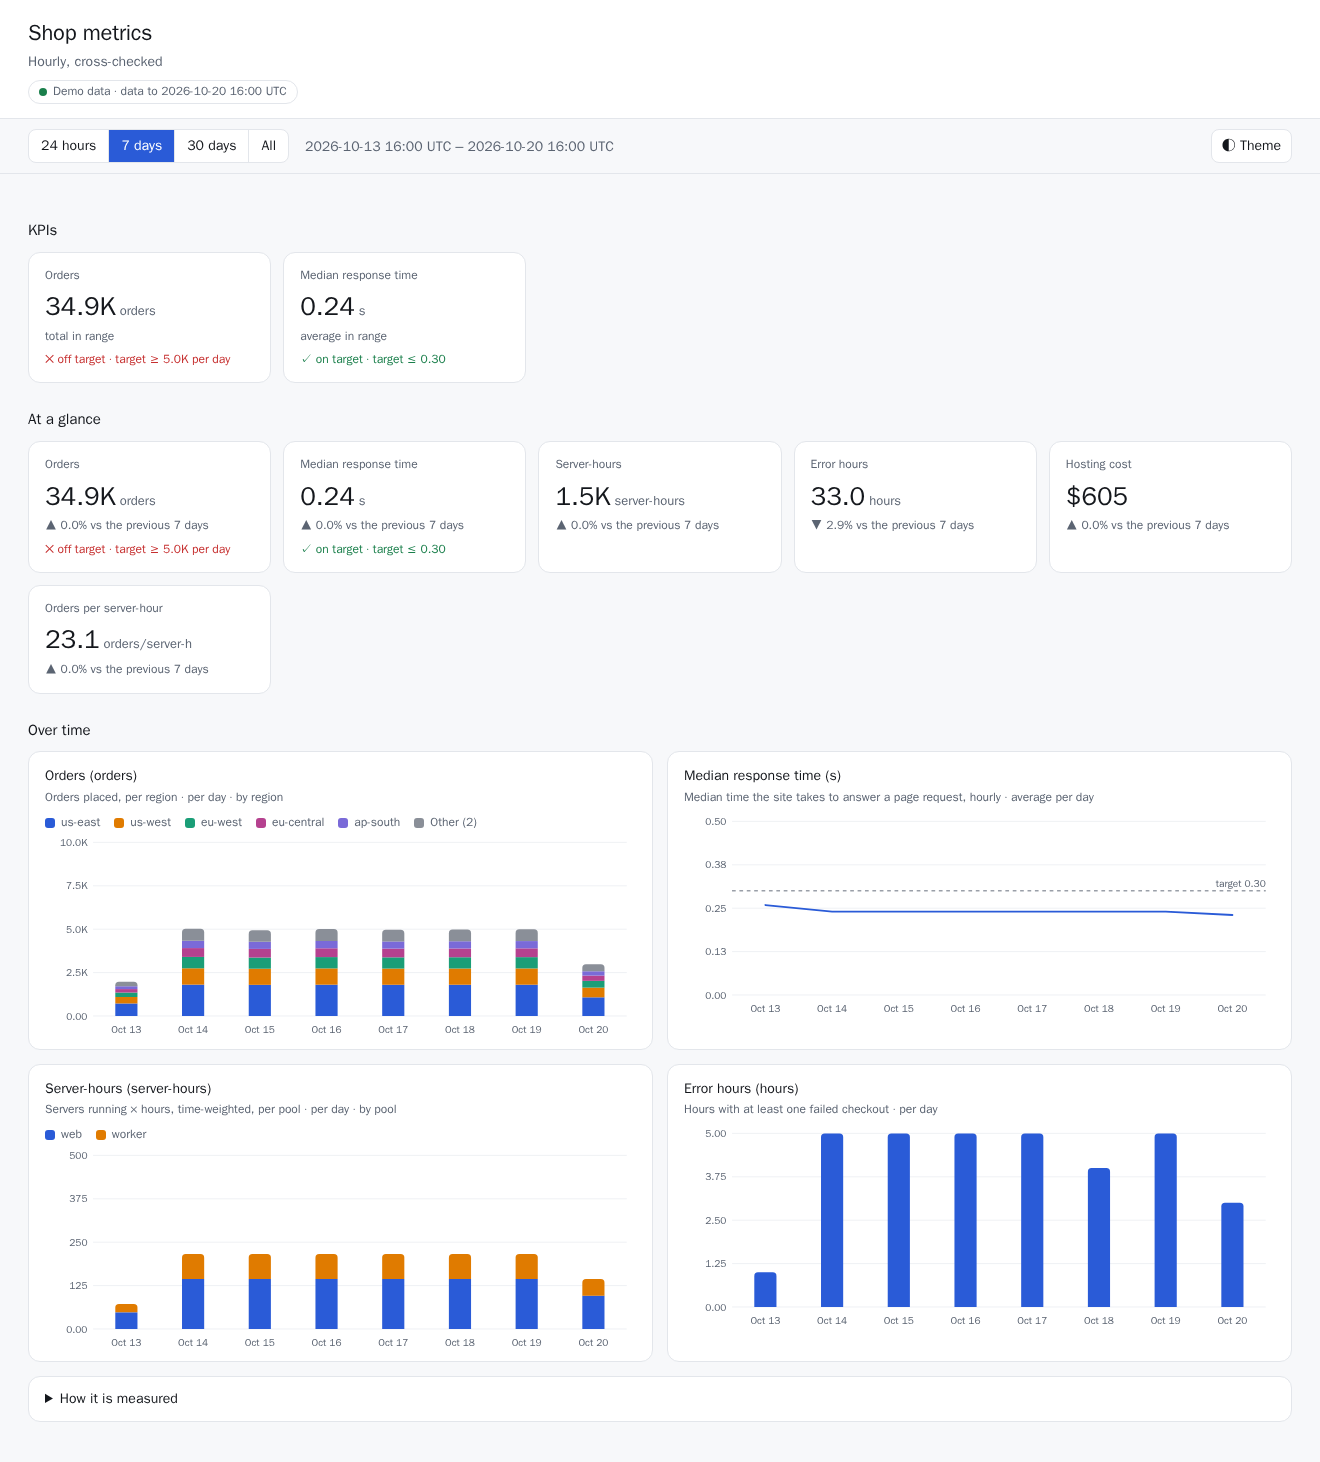
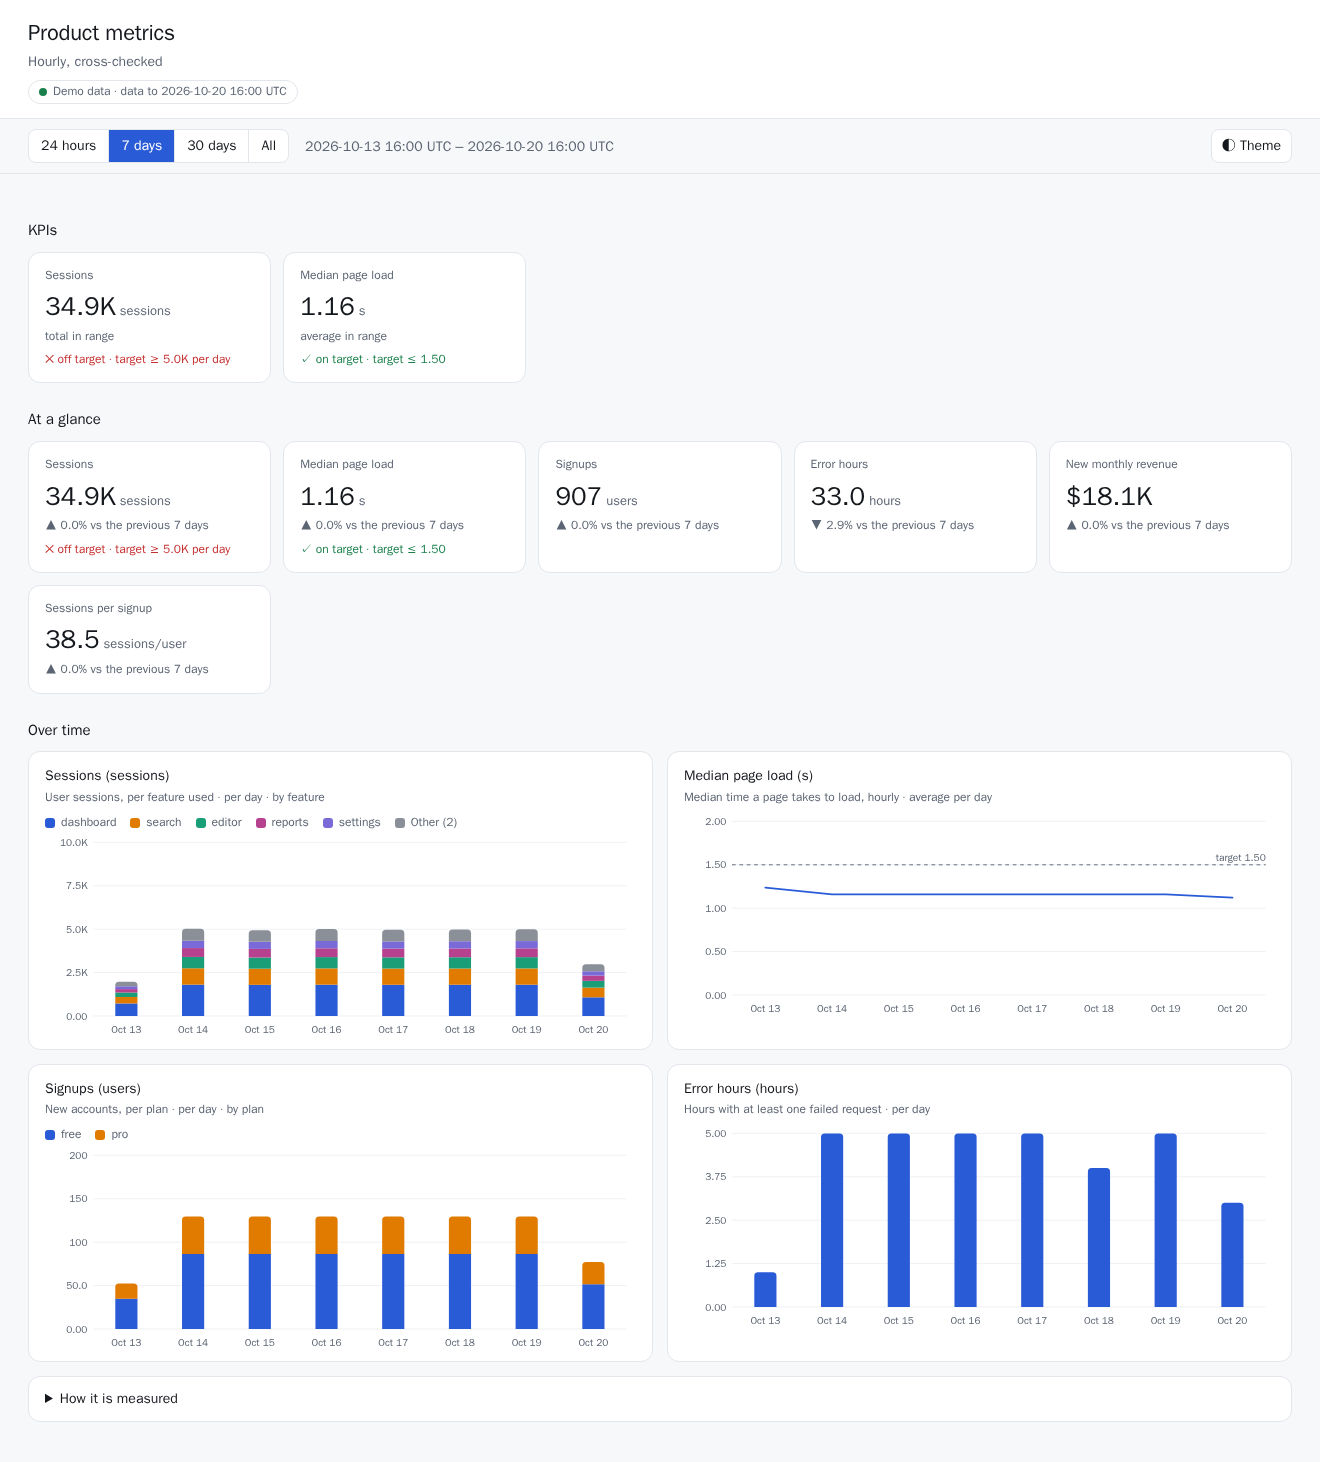
Demo plays a software product, not a shop
Sessions per feature, median page load, signups per plan, error hours, and
new monthly revenue from a hand-set rate per signup.

Assisted-By: Claude (Anthropic AI) <noreply@anthropic.com>

diff --git a/scripts/sources/demo.py b/scripts/sources/demo.py
@@ -1,27 +1,27 @@
 """Synthetic data, deterministic, no network: for trying the kit before a real source is connected,
-and for the offline tests. It plays an online shop. `query` names a generator: `orders`,
-`response_time`, `servers`, `errors`. Values depend only on the bucket time, so a range query and
+and for the offline tests. It plays a software product. `query` names a generator: `sessions`,
+`page_load`, `signups`, `errors`. Values depend only on the bucket time, so a range query and
 a window query agree exactly.
 """
 
 import math
 
-SERIES = {"orders": ["us-east", "us-west", "eu-west", "eu-central", "ap-south", "ap-east", "sa-east"],
-          "response_time": ["all"], "servers": ["web", "worker"], "errors": ["all"]}
-LABEL = {"orders": "region", "servers": "pool"}
-SERVERS = {"web": 6.0, "worker": 3.0}
+SERIES = {"sessions": ["dashboard", "search", "editor", "reports", "settings", "integrations", "api"],
+          "page_load": ["all"], "signups": ["free", "pro"], "errors": ["all"]}
+LABEL = {"sessions": "feature", "signups": "plan"}
+SIGNUPS = {"free": 6.0, "pro": 3.0}
 
 
 def value(gen, key, t):
     h = (t // 3600) % 24
     daily = 0.6 + 0.4 * math.sin((h - 9) / 24 * 2 * math.pi)
     i = (SERIES[gen].index(key) + 1) if key in SERIES[gen] else 1
-    if gen == "orders":
+    if gen == "sessions":
         return round(120 * daily / i + (t // 3600) % 7, 3)
-    if gen == "response_time":
-        return round(0.15 + 0.15 * daily, 4)
-    if gen == "servers":
-        return SERVERS[key]
+    if gen == "page_load":
+        return round(0.8 + 0.6 * daily, 4)
+    if gen == "signups":
+        return round(SIGNUPS[key] * daily, 3)
     return float((t // 3600) % 5 == 0)
 
 
@@ -41,7 +41,7 @@ class Source:
             for t in range(int(start), int(end), int(step)):
                 # sum of the hours inside the bucket, so any step stays consistent with window()
                 hours = range(t, t + int(step), 3600)
-                if query.strip() == "response_time":
+                if query.strip() == "page_load":
                     v = sum(value(query.strip(), key, x) for x in hours) / len(hours)
                 else:
                     v = sum(value(query.strip(), key, x) for x in hours)
@@ -55,7 +55,7 @@ class Source:
         out = []
         for key in SERIES[g]:
             vals = [value(g, key, x) for x in hours]
-            v = sum(vals) / len(vals) if g == "response_time" else sum(vals)
+            v = sum(vals) / len(vals) if g == "page_load" else sum(vals)
             out.append({"labels": self._labels(g, key), "value": v})
         return out
 

diff --git a/scripts/tests/test_pipeline.py b/scripts/tests/test_pipeline.py
@@ -97,7 +97,7 @@ class Adapters(unittest.TestCase):
     def test_demo_window_matches_range(self):
         from sources.demo import Source
         s = Source({})
-        for q in ("orders", "servers", "errors"):
+        for q in ("sessions", "signups", "errors"):
             rng = sum(v for x in s.range(q, 0, 86400 * 3, 3600) for _, v in x["points"])
             win = sum(x["value"] for x in s.window(q, 0, 86400 * 3))
             self.assertAlmostEqual(rng, win, places=6)
@@ -129,7 +129,7 @@ class Checks(unittest.TestCase):
 
     def test_total_fell(self):
         def drop(d):
-            s = max(d["series"]["orders"], key=lambda x: sum(v for _, v in x["points"]))
+            s = max(d["series"]["sessions"], key=lambda x: sum(v for _, v in x["points"]))
             s["points"] = s["points"][100:]
         r = run("python3", "scripts/check_snapshot.py", self.tamper(drop), self.snap)
         self.assertEqual(r.returncode, 4)
@@ -137,7 +137,7 @@ class Checks(unittest.TestCase):
 
     def test_series_gone(self):
         r = run("python3", "scripts/check_snapshot.py",
-                self.tamper(lambda d: d["series"]["orders"].pop()), self.snap)
+                self.tamper(lambda d: d["series"]["sessions"].pop()), self.snap)
         self.assertEqual(r.returncode, 4)
         self.assertIn("series gone", r.stdout)
 
@@ -150,11 +150,11 @@ class Checks(unittest.TestCase):
 
     def test_verify_catches_drift(self):
         def inflate(d):
-            for s in d["series"]["server_hours"]:
+            for s in d["series"]["signups"]:
                 s["points"] = [[t, v * 1.05] for t, v in s["points"]]
         r = run("python3", "scripts/verify.py", "--check", "--snapshot", self.tamper(inflate))
         self.assertEqual(r.returncode, 2)
-        self.assertIn("FAIL  server_hours", r.stdout)
+        self.assertIn("FAIL  signups", r.stdout)
 
 
 class Logo(unittest.TestCase):

diff --git a/CHANGELOG.md b/CHANGELOG.md
@@ -6,14 +6,14 @@ already running must do to adopt it ([`docs/persistence.md`](docs/persistence.md
 
 ## 0.4.0
 
-- The `demo` source is a synthetic online shop: orders per region, median
-  response time, server-hours per pool, error hours, and a hand-set hosting
-  cost. It no longer looks like a model-serving cluster.
+- The `demo` source is a synthetic software product: sessions per feature,
+  median page load, signups per plan, error hours, and new monthly revenue
+  from a hand-set rate per signup. It no longer looks like a model-serving cluster.
 - One example, `examples/demo/metrics.json`. The Prometheus, ClickHouse and
   command examples are gone; [`docs/sources.md`](docs/sources.md) has a short
   query for each source instead, and onboarding builds `work/metrics.json`
   from what the person wants to see.
-- Docs examples use generic metrics (requests, orders, server-hours) in place
+- Docs examples use generic metrics (requests, signups, server-hours) in place
   of GPUs and tokens.
 - README → **Set it up** starts from the starter kit in the DAM catalog; the
   hand install is under **Without the starter kit**.

diff --git a/docs/metrics.md b/docs/metrics.md
@@ -36,7 +36,7 @@ requirements log. `python3 "$HOME/scripts/fetch.py" --check-metrics` checks it.
 - `id`: lowercase, stable. It keys the snapshot, so renaming it re-pulls the full history.
 - `label`, `unit`, `description`: written for the reader. Plain words, no jargon in the label.
 - `kind`: how buckets add up over a range:
-  - `sum`: a count or total per bucket (requests, orders, server-hours, spend). The range value is the sum.
+  - `sum`: a count or total per bucket (requests, signups, server-hours, spend). The range value is the sum.
   - `avg`: a level (latency, utilisation, queue depth). The range value is the mean of the buckets that have data.
   - `last`: a state (users, capacity). The range value is the last bucket.
 - `combine`: how series in one bucket add up for "all": `sum` (default for `sum`), `mean`

diff --git a/README.md b/README.md
@@ -33,8 +33,8 @@ The agent then onboards you, and asks:
 3. **Who may see it**, an optional logo, the Slack channel, and who gets a DM when a run fails.
 
 Then it runs the first refresh, shows you the page and publishes it. The hourly schedule starts
-when onboarding is done. To try it without real data, pick the `demo` source: a synthetic online
-shop with orders, response time, server-hours and hosting cost.
+when onboarding is done. To try it without real data, pick the `demo` source: a synthetic software
+product with sessions per feature, page load time, signups and new revenue.
 
 Optional: add a **GitHub** connection with read access to this repository. The agent then checks
 for newer versions of itself and proposes upgrades as a patch. It never needs write access.

diff --git a/docs/sources.md b/docs/sources.md
@@ -34,9 +34,9 @@ Each module's docstring lists its `work/CONFIG.md` keys and placeholders.
 - A query returns one row per bucket and series, with a `t` column (bucket start, unix seconds) and a
   `value` column. Every other column is a label.
 - Placeholders: `$bucket(col)`, `$range(col)`, `$start`, `$end`, `$step`.
-- Example: orders per region from `orders(ts DateTime, region String)`,
-  `SELECT $bucket(ts) AS t, region, count() AS value FROM orders WHERE $range(ts) GROUP BY t, region`,
-  with `"by": "region"`.
+- Example: events per feature from `events(ts DateTime, feature String)`,
+  `SELECT $bucket(ts) AS t, feature, count() AS value FROM events WHERE $range(ts) GROUP BY t, feature`,
+  with `"by": "feature"`.
 
 ### command
 

diff --git a/docs/slack.md b/docs/slack.md
@@ -45,11 +45,11 @@ cannot see it.
 Example:
 
 ```
-*:bar_chart: Shop metrics*
+*:bar_chart: Product metrics*
 
-*4,210 orders* in the last 24 h (ending 14:00 UTC), all regions.
-• us-east 39%, us-west 19%, 5 others 42%
-• Counted from placed orders; cancelled ones are not included
+*4,210 sessions* in the last 24 h (ending 14:00 UTC), all features.
+• dashboard 39%, search 19%, 5 others 42%
+• Counted from sessions that loaded a page; bots are not included
 ```
 
 ## Things you cannot answer

diff --git a/ONBOARDING.md b/ONBOARDING.md
@@ -116,13 +116,13 @@ EOF
 - source_url: https://metrics.example.com/__platform_conn/conn_abc123/prometheus
 - source_headers: X-Scope-OrgID: tenant-a
 - source_label: Production metrics
-- title: Shop metrics
+- title: Product metrics
 - subtitle: Hourly, cross-checked
 - logo: logo.png
 - visibility: private
 - report_to: U0123ABCD
 - slack_channel: C0123ABCD
-- slack_header: *:bar_chart: Shop metrics*
+- slack_header: *:bar_chart: Product metrics*
 - timezone: America/New_York
 ```
 
